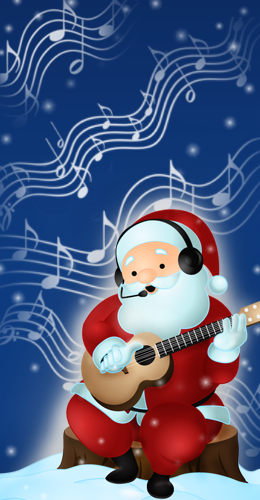
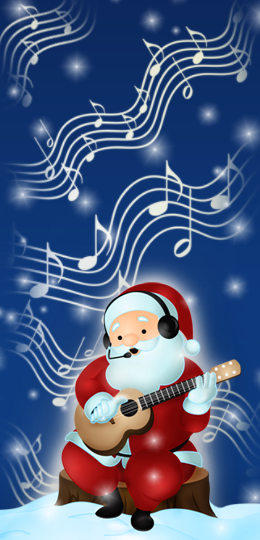
edit bg and options.html
edit bg and options.html

diff --git a/options.html b/options.html
@@ -6,14 +6,14 @@
 	</head>
 	<body>
 	<div class="contaner">
-		<h2>Call Me Back</h2>
+		<h2>Santa Call</h2>
 		<div class="row">
 			<div class="span3 bs-docs-sidebar">
 				<ul class="nav nav-list bs-docs-sidenav affix-top">
 					<li ><a href="#accountsetting" id="btn-accountsetting" ><i class="icon-chevron-right" ></i> Account Setting</a></li>
-					<li class ="hide"><a href="#advancedsetting" id="btn-advancedsetting"><i class="icon-chevron-right" ></i> Advanced Setting</a></li>
+					<li ><a href="#advancedsetting" id="btn-advancedsetting"><i class="icon-chevron-right" ></i> Advanced Setting</a></li>
 				</ul>
-				<img src="img/background.png"/>
+				<img src="img/background.png"/ style="max-height:530px">
 			</div>
 			<div class="span9">
 				<section id="accountsetting">
@@ -21,7 +21,7 @@
 						<h3>Account Setting</h3>
 						<div class="form-horizontal">
 							<div class="description">
-								The service is provided by Santa and Hoiio. You need to register a <a href="https://secure.hoiio.com/dev/Dev.html?#registrationEnterNumber" target="_blank">Hoiio developer account</a>, get your App ID and Access Token from Hoiio, then enter the required credentials below.<br>
+								The service is provided by Santa and Hoiio. You need to register a <a href="https://secure.hoiio.com/dev/Dev.html?#registrationEnterNumber" target="_blank">Hoiio developer account</a>, get your App ID and Access Token from Hoiio, then enter the required credentials below.(Your setting will be auto-save)<br>
 							</div>
 							<br/>
 							<div class="control-group">
@@ -36,12 +36,35 @@
 									<input type="text" id="inputAccessToken" placeholder="YOUR ACCESS TOKEN">
 								</div>
 							</div>
+						</div>
+					</div>
+				</section>
+				<section id="advancedsetting" class="hide">
+					<div class="page-header">
+						<h3>Advanced Option</h3>
+						<div class="form-horizontal">
+							<div class="description">
+								Config your message language and maximum time of this card (The time starts when your friends picks up the phone)
+							</div>
+							<br/>
+							<div class="control-group" id="languageDiv">
+								<label class="control-label" for="inputLanguage">Language:</label>
+								<div class="controls">
+									<select id="inputLanguage" >
+										<option value="en">English</option>
+										<option value="zh">Chinese</option>
+										<option value="zh-HK">Cantonese</option>
+										<option value="ja">Japanese</option>
+										<option value="ko">Korean</option>
+									</select>
+								</div>
+							</div>
 							<div class="control-group">
 								<label class="control-label" for="inputMaxDuration">Max Duration:</label>
 								<div class="controls">
-									<input type="text" value="30" id="inputMaxDuration" placeholder="The maximum duration(in seconds).">
+									<input type="text" style="min-width:220px" id="inputMaxDuration" placeholder="The maximum duration(in seconds).">
 								</div>
-							</div>
+							</div> 
 						</div>
 					</div>
 				</section>

diff --git a/popup.html b/popup.html
@@ -1,10 +1,10 @@
-<html>
+<!DOCTYPE html>
 	<head>
 		<link type="text/css" rel="stylesheet" href="https://d1fnpdk9svbocx.cloudfront.net/libs/bootstrap-hoiio/css/bootstrap.min.css">
 		<link type="text/css" rel="stylesheet" href="https://d1fnpdk9svbocx.cloudfront.net/libs/bootstrap-hoiio/css/bootstrap-responsive.min.css">
 		<link type="text/css" rel="stylesheet" href="css/popup.css"
 	</head>
-	<body background="img/background.png" style="max-height:500px;color:white">
+	<body background="img/background.png" style="max-height:540px;color:white">
 	<div class="contaner">
 		<div class="row">
 			<div class="form-horizontal">
@@ -13,16 +13,6 @@
 					<div class="controls">
 						<input type="text" id="inputNumber" placeholder="+6501234567" style="min-width:220px">
 					</div>
-				</div>
-				<div class="control-group" id="languageDiv">
-					<label class="control-label" for="inputLanguage">Language:</label>
-					<select id="inputLanguage" >
-						<option value="en">English</option>
-						<option value="zh">Chinese</option>
-						<option value="zh-HK">Cantonese</option>
-						<option value="ja">Japanese</option>
-						<option value="ko">Korean</option>
-					</select>
 				</div>
 				<div class="control-group">
 					<label class="control-label" for="inputMsg">Message: </label>

diff --git a/popup.js b/popup.js
@@ -41,7 +41,7 @@ function openOptionPageIfConfigEmpty() {
 
 function sendOnClick() {
     var destNumber = $('#inputNumber').val();
-    var lang = $('#inputLanguage option:selected').val();
+    var lang = localStorage['language'];
     var msg = $('#inputMsg').val();
 
     if (!checkMaxLength(msg, 500)) {
@@ -49,10 +49,6 @@ function sendOnClick() {
         return;
     }
 
-    if (!validPhoneNumber(destNumber)) {
-        setStatus("Invalid Phone Number format", true);
-        return;
-    }
 	var url;
 	var checked = $('#use_user_url:checked').val();
         if (checked != undefined) {
@@ -87,9 +83,11 @@ chrome.extension.onRequest.addListener(
 function setStatus(msg, isError) {
     isError = typeof isError !== 'undefined' ? isError : false;
     if (isError) {
-        $('#status').addClass('text-error');
+		$('#status').removeClass('alert-success');
+        $('#status').addClass('alert-error');
     } else {
-        $('#status').addClass('text-success');
+		$('#status').removeClass('alert-error');
+        $('#status').addClass('alert-success');
     }
     $('#status').html(msg);
     $('#status').show().delay(5000).fadeOut('fast');

diff --git a/options.js b/options.js
@@ -19,6 +19,19 @@ function loadUserSetting() {
 		localStorage['max_duration'] =30;
 	}
     $('#inputMaxDuration').val(localStorage['max_duration'])
+	var language = localStorage["language"];
+	if (!language) {
+		localStorage["language"] ="en" ;
+	}
+	
+	var selector = document.getElementById("inputLanguage");
+	for (var i = 0; i < selector.children.length; i++) {
+		var child = selector.children[i];
+		if (child.value == language) {
+			child.selected = "true";
+			break;
+		}
+	}
 }
 
 function bindEvent() {
@@ -37,4 +50,7 @@ function bindEvent() {
     $('#inputMaxDuration').focusout(function () {
         localStorage['max_duration'] = $('#inputMaxDuration').val();
     });
+	$('#inputLanguage').change(function(){
+		localStorage['language'] = $('#inputLanguage option:selected').val();
+	})
 }

diff --git a/css/popup.css b/css/popup.css
@@ -14,3 +14,6 @@ text-error{
 select{
    color:black;
 }
+ body {
+       max-height: 540px;
+ }
